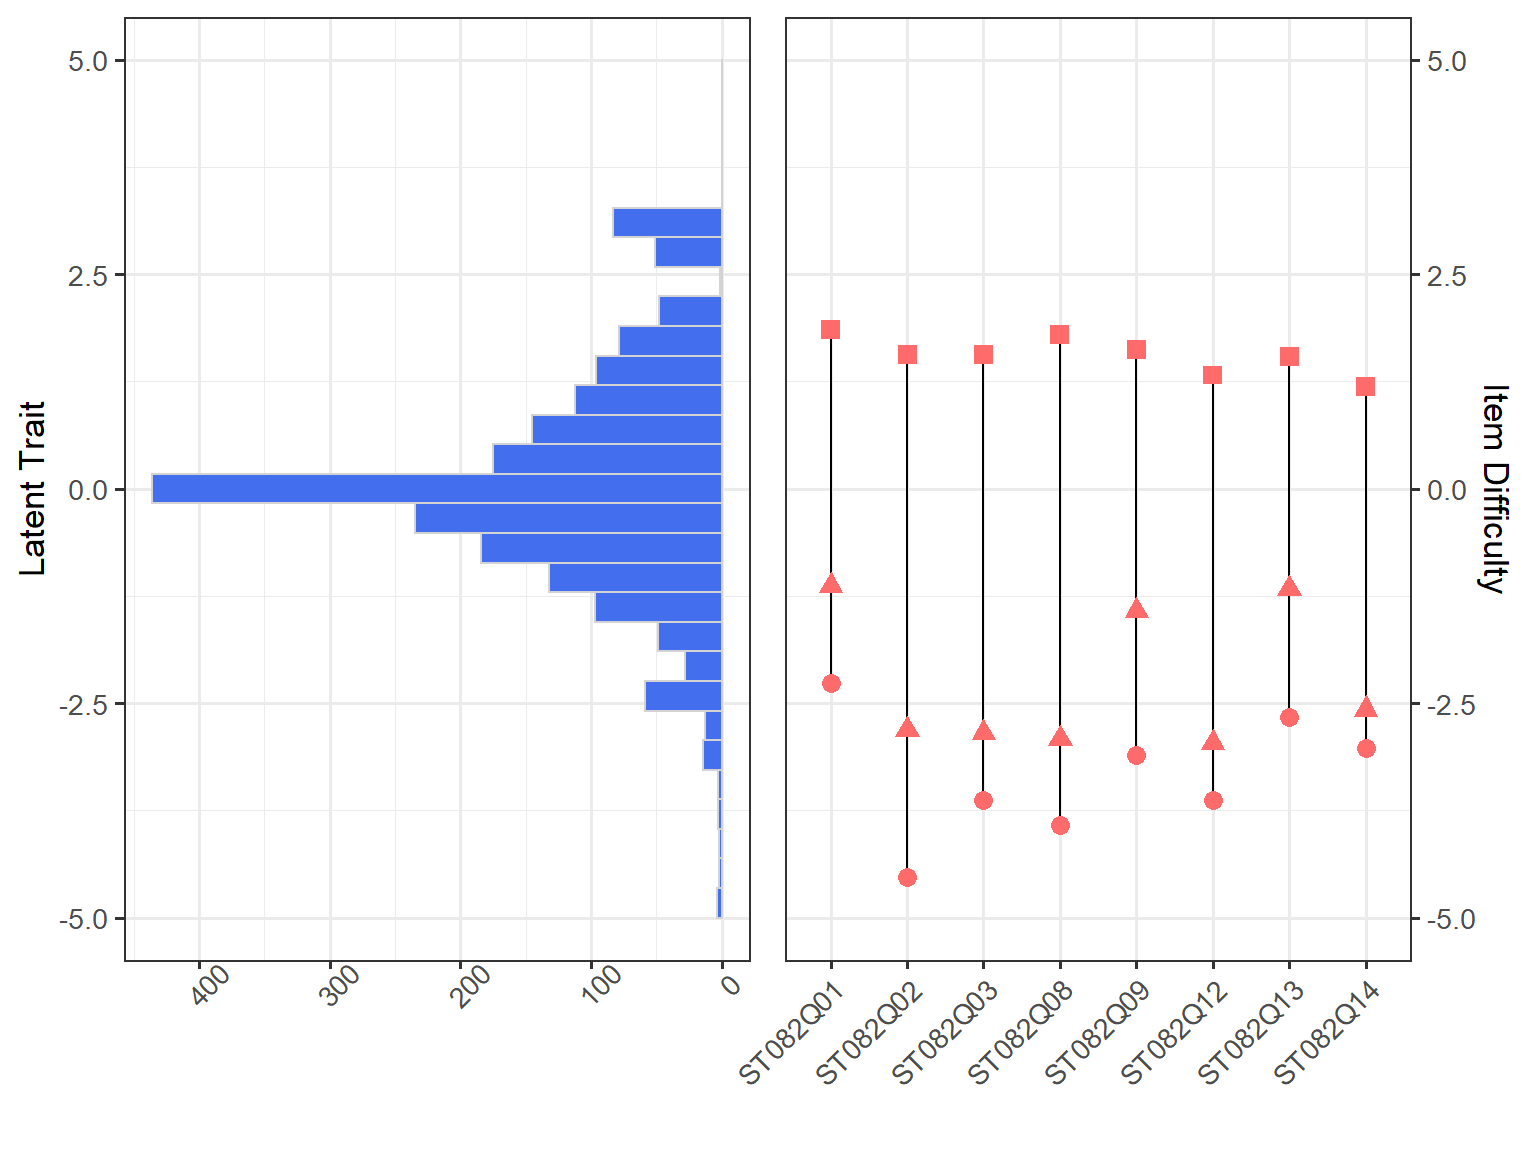
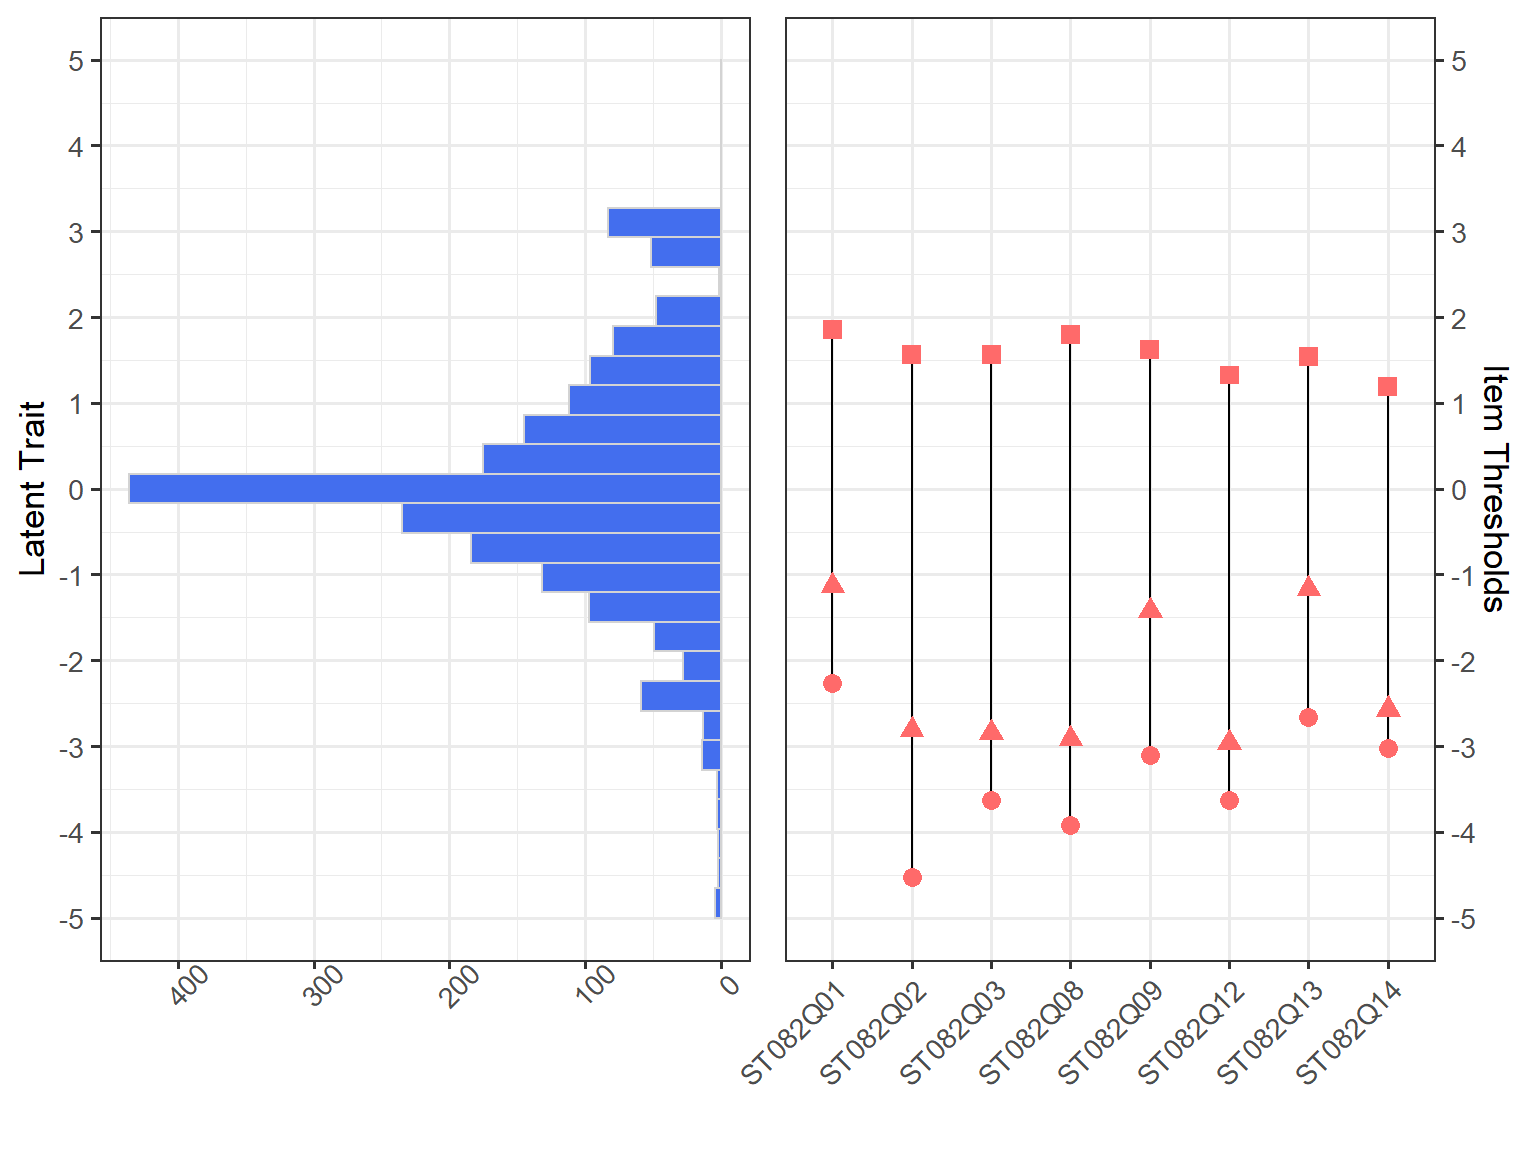
Initial commit

diff --git a/_posts/2021-03-04-5-ways-to-effectively-visualize-survey-data/5-ways-to-effectively-visualize-survey-data.html b/_posts/2021-03-04-5-ways-to-effectively-visualize-survey-data/5-ways-to-effectively-visualize-survey-data.html
@@ -1816,14 +1816,21 @@ Figure 6: A plot of Likert items in the PISA dataset
 <h2 id="item-person-map">Item-Person Map</h2>
 <div class="layout-chunk" data-layout="l-body-outset">
 <div class="sourceCode">
-<pre class="sourceCode r"><code class="sourceCode r"><span class='va'>items</span> <span class='op'>&lt;-</span> <span class='fu'><a href='https://dplyr.tidyverse.org/reference/select.html'>select</a></span><span class='op'>(</span><span class='va'>data</span>, <span class='fu'><a href='https://tidyselect.r-lib.org/reference/starts_with.html'>starts_with</a></span><span class='op'>(</span><span class='fu'><a href='https://rdrr.io/r/base/c.html'>c</a></span><span class='op'>(</span><span class='st'>"ST082"</span><span class='op'>)</span><span class='op'>)</span><span class='op'>)</span>
+<pre class="sourceCode r"><code class="sourceCode r"><span class='co'># Save the items as a separate dataset</span>
+<span class='va'>items</span> <span class='op'>&lt;-</span> <span class='fu'><a href='https://dplyr.tidyverse.org/reference/select.html'>select</a></span><span class='op'>(</span><span class='va'>data</span>, <span class='fu'><a href='https://tidyselect.r-lib.org/reference/starts_with.html'>starts_with</a></span><span class='op'>(</span><span class='fu'><a href='https://rdrr.io/r/base/c.html'>c</a></span><span class='op'>(</span><span class='st'>"ST082"</span><span class='op'>)</span><span class='op'>)</span><span class='op'>)</span>
+
+<span class='co'># Change responses from 1-2-3-4 to 0-1-2-3 by subtracting 1</span>
 <span class='va'>items2</span> <span class='op'>&lt;-</span> <span class='fu'><a href='https://rdrr.io/r/base/apply.html'>apply</a></span><span class='op'>(</span><span class='va'>items</span>, <span class='fl'>2</span>, <span class='kw'>function</span><span class='op'>(</span><span class='va'>x</span><span class='op'>)</span> <span class='va'>x</span><span class='op'>-</span><span class='fl'>1</span><span class='op'>)</span>
 
 <span class='co'># Apply the Partial Credit Model</span>
 <span class='va'>mod</span> <span class='op'>&lt;-</span> <span class='fu'><a href='https://rdrr.io/pkg/mirt/man/mirt.html'>mirt</a></span><span class='op'>(</span><span class='va'>items2</span>, <span class='fl'>1</span>, itemtype <span class='op'>=</span> <span class='st'>"Rasch"</span>, technical <span class='op'>=</span> <span class='fu'><a href='https://rdrr.io/r/base/list.html'>list</a></span><span class='op'>(</span>removeEmptyRows<span class='op'>=</span><span class='cn'>TRUE</span><span class='op'>)</span>,
             verbose <span class='op'>=</span> <span class='cn'>FALSE</span><span class='op'>)</span>
 
-<span class='co'># Function for the item-person map</span>
+<span class='co'># Function to draw and item-person map</span>
+<span class='co'># mod is a mirt model returned from the mirt function</span>
+<span class='co'># For meaningful results, Partial Credit Model must be</span>
+<span class='co'># used in estimating item thresholds.</span>
+
 <span class='va'>itempersonmap</span> <span class='op'>&lt;-</span> <span class='kw'>function</span><span class='op'>(</span><span class='va'>mod</span><span class='op'>)</span> <span class='op'>{</span>
   <span class='kw'><a href='https://rdrr.io/r/base/library.html'>require</a></span><span class='op'>(</span><span class='st'><a href='https://github.com/philchalmers/mirt'>"mirt"</a></span><span class='op'>)</span>
   <span class='kw'><a href='https://rdrr.io/r/base/library.html'>require</a></span><span class='op'>(</span><span class='st'><a href='https://dplyr.tidyverse.org'>"dplyr"</a></span><span class='op'>)</span>
@@ -1844,15 +1851,17 @@ Figure 6: A plot of Likert items in the PISA dataset
   <span class='va'>theta</span> <span class='op'>&lt;-</span> <span class='fu'><a href='https://rdrr.io/r/base/as.data.frame.html'>as.data.frame</a></span><span class='op'>(</span><span class='fu'><a href='https://rdrr.io/pkg/mirt/man/fscores.html'>fscores</a></span><span class='op'>(</span><span class='va'>mod</span><span class='op'>)</span><span class='op'>)</span> <span class='op'>%&gt;%</span>
     <span class='fu'><a href='https://dplyr.tidyverse.org/reference/rename.html'>rename</a></span><span class='op'>(</span>theta <span class='op'>=</span> <span class='va'>F1</span><span class='op'>)</span>
   
+  <span class='co'># Histogram of latent trait distribution</span>
   <span class='va'>p1</span> <span class='op'>&lt;-</span> <span class='fu'><a href='https://ggplot2.tidyverse.org/reference/ggplot.html'>ggplot</a></span><span class='op'>(</span>data <span class='op'>=</span> <span class='va'>theta</span>,
                <span class='fu'><a href='https://ggplot2.tidyverse.org/reference/aes.html'>aes</a></span><span class='op'>(</span>x <span class='op'>=</span> <span class='va'>theta</span><span class='op'>)</span><span class='op'>)</span> <span class='op'>+</span>
     <span class='fu'><a href='https://ggplot2.tidyverse.org/reference/geom_histogram.html'>geom_histogram</a></span><span class='op'>(</span>bins <span class='op'>=</span> <span class='fl'>30</span>, fill <span class='op'>=</span> <span class='st'>"royalblue2"</span>, colour <span class='op'>=</span> <span class='st'>"lightgray"</span><span class='op'>)</span> <span class='op'>+</span>
     <span class='fu'><a href='https://ggplot2.tidyverse.org/reference/ggtheme.html'>theme_bw</a></span><span class='op'>(</span>base_size <span class='op'>=</span> <span class='fl'>13</span><span class='op'>)</span> <span class='op'>+</span>
     <span class='fu'><a href='https://ggplot2.tidyverse.org/reference/theme.html'>theme</a></span><span class='op'>(</span>axis.text.x <span class='op'>=</span> <span class='fu'><a href='https://ggplot2.tidyverse.org/reference/element.html'>element_text</a></span><span class='op'>(</span>angle <span class='op'>=</span> <span class='fl'>45</span><span class='op'>)</span><span class='op'>)</span> <span class='op'>+</span>
     <span class='fu'><a href='https://ggplot2.tidyverse.org/reference/labs.html'>labs</a></span><span class='op'>(</span>x <span class='op'>=</span> <span class='st'>"Latent Trait"</span>, y <span class='op'>=</span> <span class='st'>""</span><span class='op'>)</span> <span class='op'>+</span>
-    <span class='fu'><a href='https://ggplot2.tidyverse.org/reference/lims.html'>xlim</a></span><span class='op'>(</span><span class='fu'><a href='https://rdrr.io/r/base/c.html'>c</a></span><span class='op'>(</span><span class='op'>-</span><span class='fl'>5</span>, <span class='fl'>5</span><span class='op'>)</span><span class='op'>)</span> <span class='op'>+</span> 
+    <span class='fu'><a href='https://ggplot2.tidyverse.org/reference/scale_continuous.html'>scale_x_continuous</a></span><span class='op'>(</span>limits <span class='op'>=</span> <span class='fu'><a href='https://rdrr.io/r/base/c.html'>c</a></span><span class='op'>(</span><span class='op'>-</span><span class='fl'>5</span>, <span class='fl'>5</span><span class='op'>)</span>, breaks <span class='op'>=</span> <span class='fu'><a href='https://rdrr.io/r/base/seq.html'>seq</a></span><span class='op'>(</span><span class='op'>-</span><span class='fl'>5</span>, <span class='fl'>5</span>, by <span class='op'>=</span> <span class='fl'>1</span><span class='op'>)</span><span class='op'>)</span> <span class='op'>+</span>
     <span class='fu'><a href='https://ggplot2.tidyverse.org/reference/coord_flip.html'>coord_flip</a></span><span class='op'>(</span><span class='op'>)</span> <span class='op'>+</span> <span class='fu'><a href='https://ggplot2.tidyverse.org/reference/scale_continuous.html'>scale_y_reverse</a></span><span class='op'>(</span><span class='op'>)</span>
   
+  <span class='co'># Dot and line plot of item thresholds</span>
   <span class='va'>p2</span> <span class='op'>&lt;-</span> <span class='fu'><a href='https://ggplot2.tidyverse.org/reference/ggplot.html'>ggplot</a></span><span class='op'>(</span>data <span class='op'>=</span> <span class='va'>pars</span>, 
                <span class='fu'><a href='https://ggplot2.tidyverse.org/reference/aes.html'>aes</a></span><span class='op'>(</span>x <span class='op'>=</span> <span class='va'>item</span>, y <span class='op'>=</span> <span class='va'>parameter</span><span class='op'>)</span><span class='op'>)</span> <span class='op'>+</span>
     <span class='fu'><a href='https://ggplot2.tidyverse.org/reference/geom_path.html'>geom_line</a></span><span class='op'>(</span><span class='op'>)</span> <span class='op'>+</span>
@@ -1860,9 +1869,10 @@ Figure 6: A plot of Likert items in the PISA dataset
     <span class='fu'><a href='https://ggplot2.tidyverse.org/reference/ggtheme.html'>theme_bw</a></span><span class='op'>(</span>base_size <span class='op'>=</span> <span class='fl'>13</span><span class='op'>)</span> <span class='op'>+</span>
     <span class='fu'><a href='https://ggplot2.tidyverse.org/reference/theme.html'>theme</a></span><span class='op'>(</span>axis.text.x <span class='op'>=</span> <span class='fu'><a href='https://ggplot2.tidyverse.org/reference/element.html'>element_text</a></span><span class='op'>(</span>angle <span class='op'>=</span> <span class='fl'>45</span>, hjust <span class='op'>=</span> <span class='fl'>1</span><span class='op'>)</span>,
           legend.position <span class='op'>=</span> <span class='st'>"none"</span><span class='op'>)</span> <span class='op'>+</span>
-    <span class='fu'><a href='https://ggplot2.tidyverse.org/reference/labs.html'>labs</a></span><span class='op'>(</span>x <span class='op'>=</span> <span class='st'>""</span>, y <span class='op'>=</span> <span class='st'>"Item Difficulty"</span>, shape <span class='op'>=</span> <span class='st'>"Threshold"</span><span class='op'>)</span> <span class='op'>+</span>
-    <span class='fu'><a href='https://ggplot2.tidyverse.org/reference/scale_continuous.html'>scale_y_continuous</a></span><span class='op'>(</span>position <span class='op'>=</span> <span class='st'>"right"</span>, limits <span class='op'>=</span> <span class='fu'><a href='https://rdrr.io/r/base/c.html'>c</a></span><span class='op'>(</span><span class='op'>-</span><span class='fl'>5</span>, <span class='fl'>5</span><span class='op'>)</span><span class='op'>)</span>
+    <span class='fu'><a href='https://ggplot2.tidyverse.org/reference/labs.html'>labs</a></span><span class='op'>(</span>x <span class='op'>=</span> <span class='st'>""</span>, y <span class='op'>=</span> <span class='st'>"Item Thresholds"</span>, shape <span class='op'>=</span> <span class='st'>"Threshold"</span><span class='op'>)</span> <span class='op'>+</span>
+    <span class='fu'><a href='https://ggplot2.tidyverse.org/reference/scale_continuous.html'>scale_y_continuous</a></span><span class='op'>(</span>position <span class='op'>=</span> <span class='st'>"right"</span>, limits <span class='op'>=</span> <span class='fu'><a href='https://rdrr.io/r/base/c.html'>c</a></span><span class='op'>(</span><span class='op'>-</span><span class='fl'>5</span>, <span class='fl'>5</span><span class='op'>)</span>, breaks <span class='op'>=</span> <span class='fu'><a href='https://rdrr.io/r/base/seq.html'>seq</a></span><span class='op'>(</span><span class='op'>-</span><span class='fl'>5</span>, <span class='fl'>5</span>, by <span class='op'>=</span> <span class='fl'>1</span><span class='op'>)</span><span class='op'>)</span>
   
+  <span class='co'># Combine the plots together</span>
   <span class='fu'><a href='https://wilkelab.org/cowplot/reference/plot_grid.html'>plot_grid</a></span><span class='op'>(</span><span class='va'>p1</span>, <span class='va'>p2</span>, align <span class='op'>=</span> <span class='st'>"h"</span><span class='op'>)</span>
   
 <span class='op'>}</span>
